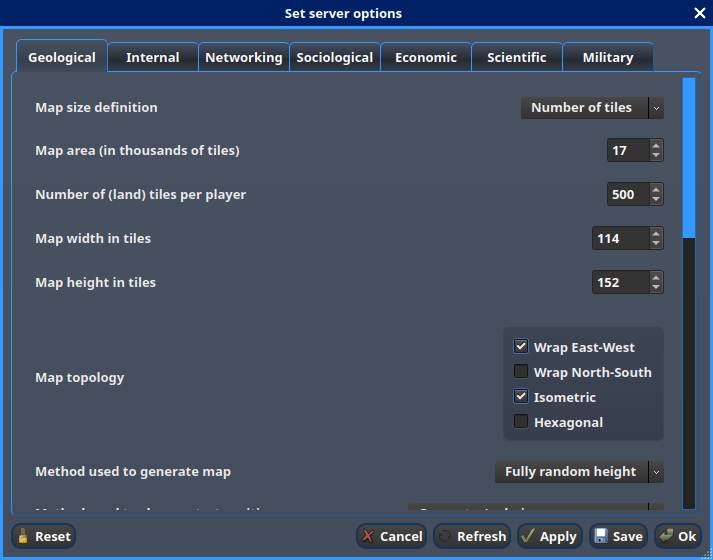
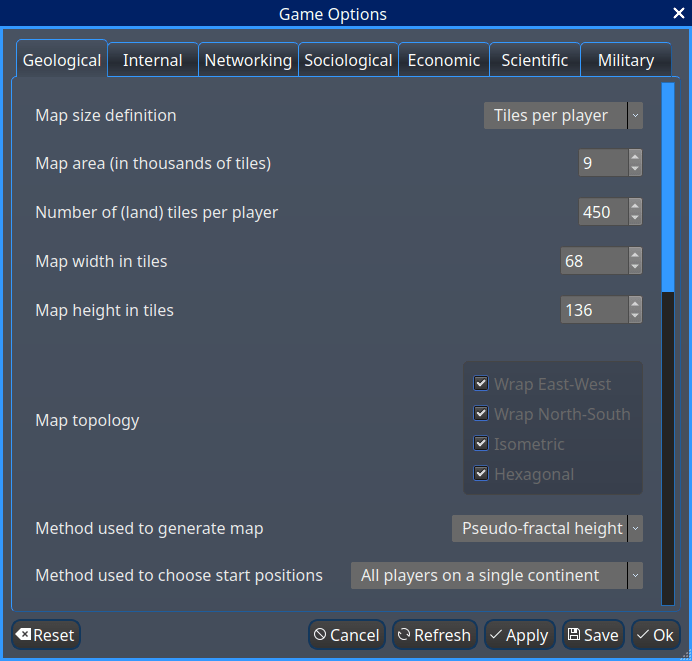
Update client manual with changes to the client interface

diff --git a/docs/General/Manuals/client-manual.rst b/docs/General/Manuals/client-manual.rst
@@ -74,7 +74,7 @@ From upper left to lower right, the following user interface elements are availa
 * :guilabel:`Number of Players`
 * :guilabel:`AI Skill Level`
 * :guilabel:`More Game Options`
-* :guilabel:`Client Options`
+* :guilabel:`Interface Options`
 * :guilabel:`Server Output Window`
 * :guilabel:`Server Chat/Command Line`
 * :guilabel:`Disconnect`
@@ -158,23 +158,24 @@ use the `Players list`_ right-click menu.
 More Game Options
 ^^^^^^^^^^^^^^^^^
 
-Clicking on this button will bring up the :guilabel:`Server Options` dialog box as shown in :numref:`Server
-Options Dialog` below. From here you can customize other settings for the game before you start it. The
-ruleset defines many of these options, so be sure to select the ruleset you want to play before attempting to
-set other settings. You can hover the mouse over the entries to get an explanation of what the setting does.
+Clicking on this button will bring up the :guilabel:`Game Options` dialog box as shown in
+:numref:`Game Options dialog` below. From here you can customize other settings for the game before you start
+it. The ruleset defines many of these options, so be sure to select the ruleset you want to play before
+attempting to set other settings. You can hover the mouse over the entries to get an explanation of what the
+setting does.
 
-.. _Server Options Dialog:
-.. figure:: ../../_static/images/gui-elements/server-options.png
+.. _Game Options dialog:
+.. figure:: ../../_static/images/gui-elements/game-options.png
     :scale: 65%
     :align: center
-    :alt: Freeciv21 Server Options dialog
+    :alt: Freeciv21 Game Options dialog
     :figclass: align-center
 
-    Server Options Dialog
+    Game Options dialog
 
 
-Client Options
-^^^^^^^^^^^^^^
+Interface Options
+^^^^^^^^^^^^^^^^^
 
 Refer to the section on `Options`_ below.
 
@@ -182,10 +183,10 @@ Server Output Window
 ^^^^^^^^^^^^^^^^^^^^
 
 When you pick a ruleset, you will often see a bunch of output inside of this window. Also, if you make changes
-to the server in `More Game Options`_, you will see output from those settings in this window as well. This is
-actually a good way to learn what the varying server options are that can be issued via the `Server
-chat/command line`_. This window is read-only, however you can select text from it and copy it to paste in a
-text file if needed.
+to the game in `More Game Options`_, you will see output from those settings in this window as well. This is
+actually a good way to learn what the varying game options are that can be issued via the
+`Server chat/command line`_. This window is read-only, however you can select text from it and copy it to
+paste in a text file if needed.
 
 Server Chat/Command Line
 ^^^^^^^^^^^^^^^^^^^^^^^^
@@ -197,9 +198,9 @@ Disconnect
 ^^^^^^^^^^
 
 Clicking this button takes you back to the :guilabel:`Start Screen` as shown in :numref:`Start Screen`. The
-local ``freeciv21-server`` instance will terminate at this time. A subsequent click of :guilabel:`Start New
-Game` will spawn a new instance of the server, however any changes made previously will be lost and you will
-have to start over.
+local ``freeciv21-server`` instance will terminate at this time. A subsequent click of
+:guilabel:`Start New Game` will spawn a new instance of the server, however any changes made previously will
+be lost and you will have to start over.
 
 Observe
 ^^^^^^^
@@ -307,28 +308,29 @@ Options
 -------
 
 From the Start Screen, as shown in :numref:`Start Screen`, when you click on the :guilabel:`Options` button, a
-dialog box will appear as in :numref:`Local Options Dialog` below. This dialog allows you to set a myriad of
-options that affect the look and feel of the client when you are playing a game.
+dialog box will appear as in :numref:`Interface Options dialog` below. This dialog allows you to set a myriad
+of options that affect the look and feel of the user interface when you are playing a game.
 
-The local options dialog box can also be opened while in a game via the
-:menuselection:`Game --> Local Options` menu.
+The interface options dialog box can also be opened while in a game via the
+:menuselection:`Game --> Interface Options` menu as well as from the `Start New Game`_ dialog by clicking on
+the :guilabel:`Interface Options` button.
 
-.. _Local Options Dialog:
-.. figure:: ../../_static/images/gui-elements/local-options.png
+.. _Interface Options dialog:
+.. figure:: ../../_static/images/gui-elements/interface-options.png
     :scale: 65%
     :align: center
-    :alt: Freeciv21 local options dialog
+    :alt: Freeciv21 interface options dialog
     :figclass: align-center
 
-    Local Options Dialog
+    Interface Options dialog
 
 
-The local options dialog is broken down into the following tabs:
+The Interface Options dialog is broken down into the following tabs:
 
 * :guilabel:`Network`: On this tab you can save your preferred username, server and port information to be
   used during `Connect to Network Game`_.
 * :guilabel:`Sound`: On this tab you can set everything related to in game sound and music.
-* :guilabel:`Interface`: On this tab you can set anything related to how you interact with the interface of
+* :guilabel:`Interface`: On this tab you can set anything related to how you interact with the interface of the
   client while playing a game.
 * :guilabel:`Graphics`: On this tab you can change the look and feel with a different theme. NightStalker is
   the default theme out of the box. You can also set the default tileset to use under different map styles as
@@ -537,7 +539,7 @@ Scale Fonts
 
 Citybar Style
     This menu has a sub-menu of three options: :guilabel:`Simple`, :guilabel:`Traditional`, and
-    :guilabel:`Polished` as shown in :numref:`Citybar Style Simple`, :numref:`Citybar Style Traditional`,
+    :guilabel:`Polished` as shown in :numref:`Citybar Style Simple`, :numref:`Citybar Sytle Traditional`,
     and, :numref:`Citybar Style Polished`, respectively.
 
 .. _Citybar Style Simple:
